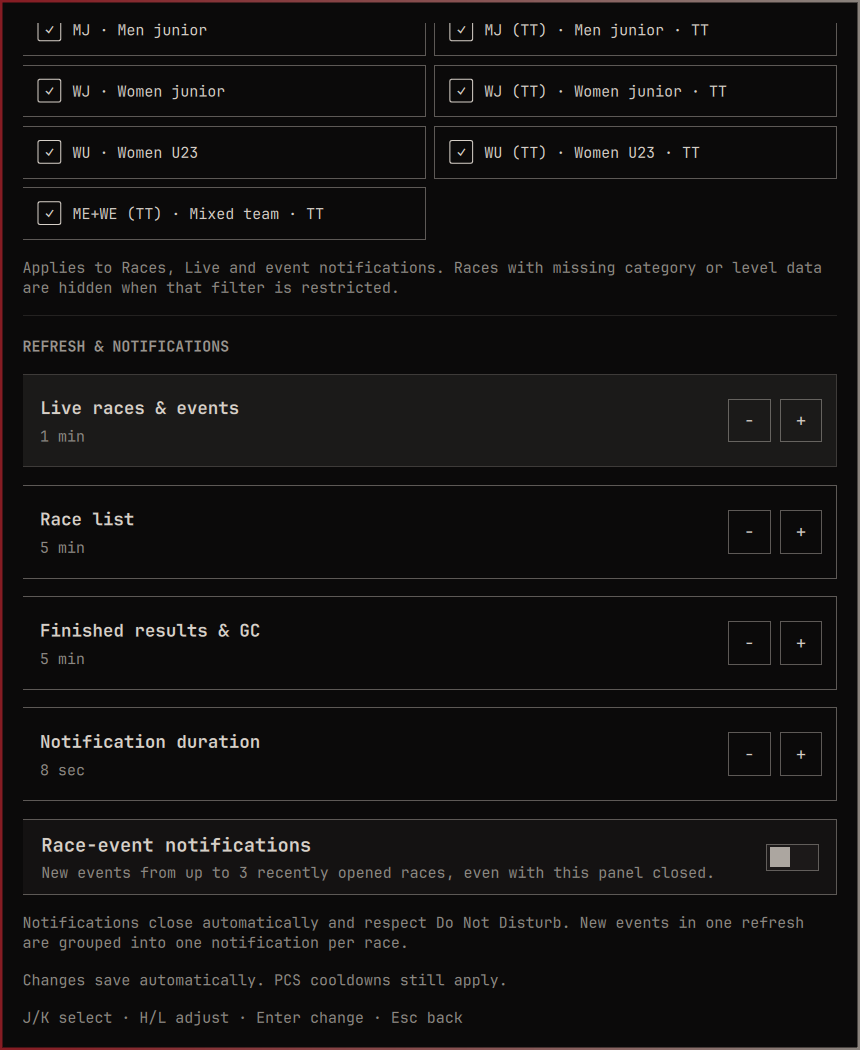
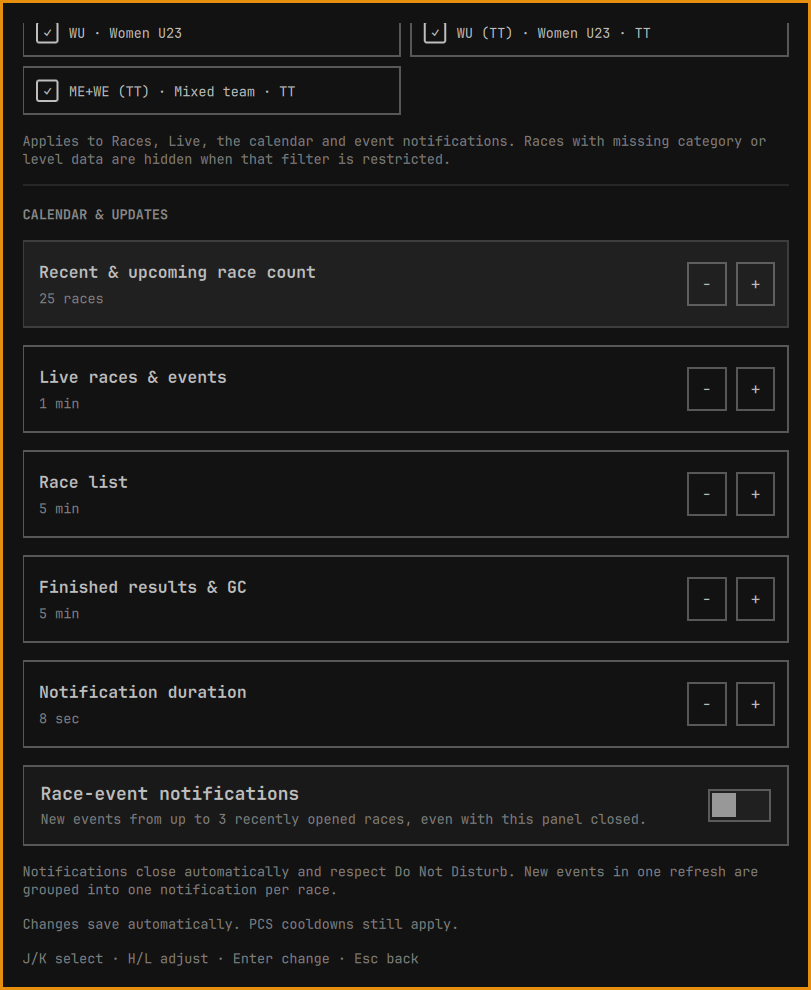
test: verify calendar settings and native window behavior

Changed region(s): [[0.0, 0.0, 1.0, 1.0], [0.8323, 0.3636, 0.9556, 0.4242]]

diff --git a/BarWidget.qml b/BarWidget.qml
@@ -22,6 +22,7 @@ Panel {
     property int archiveCount: preferences.archiveRaceCount
     property var archiveSelection: null
     readonly property var archiveData: service ? service.archives[archiveMode] || ({state:"loading",races:[]}) : ({})
+    readonly property int archiveAvailableCount: Model.archiveRows(archiveData.races || [],archiveMode,Model.dayKey(now,0),preferences,100).length
     readonly property bool archiveBusy: service ? service.archiveBusy(archiveMode) : false
     readonly property string dayDate: Model.dayKey(now,dayOffset)
     readonly property var dayData: archive ? archiveData : !service ? ({}) : dayOffset === 0 ? {state:service.state,error:service.error,fetchedAt:service.fetchedAt,races:service.races} : service.dayLists[dayDate] || ({state:"loading"})
@@ -477,8 +478,8 @@ Panel {
                         }
                         Button {
                             visible:root.archive && (root.rows.length<root.archiveCount || root.archiveCount<100)
-                            width:parent.width;enabled:!root.archiveBusy && !root.archiveData.exhausted && (!root.service || root.service.nextAllowed<=root.now)
-                            text:root.archiveBusy ? "Searching…" : root.archiveData.exhausted ? "Calendar search limit reached" : root.rows.length>=root.archiveCount ? "Show more races" : root.archiveMode==="recent" ? "Search older races" : "Search later races"
+                            width:parent.width;enabled:!root.archiveBusy && (!root.archiveData.exhausted || root.archiveAvailableCount>root.archiveCount) && (!root.service || root.service.nextAllowed<=root.now)
+                            text:root.archiveBusy ? "Searching…" : root.rows.length>=root.archiveCount && root.archiveCount<root.archiveAvailableCount ? "Show more races" : root.archiveData.exhausted ? (root.demo ? "End of demo calendar" : "Calendar search limit reached") : root.rows.length>=root.archiveCount ? "Show more races" : root.archiveMode==="recent" ? "Search older races" : "Search later races"
                             bordered:true;foreground:root.foreground
                             onClicked:{if(root.rows.length>=root.archiveCount)root.archiveCount=Math.min(100,root.archiveCount+25);if(root.service)root.service.watchArchive(root.archiveMode,root.archiveCount,true)}
                         }
@@ -527,7 +528,7 @@ Panel {
                             width:parent.width;detail:root.detail;foreground:root.foreground
                         }
                     }
-                    RaceText {width:parent.width;text:root.expanded ? "J/K select · Enter details · R refresh · Esc back" : "←/→ day · J/K select · Enter details · R refresh";font.pixelSize:Style.font.caption;color:root.dim;horizontalAlignment:Text.AlignHCenter}
+                    RaceText {width:parent.width;text:root.expanded ? "J/K select · Enter details · R refresh · Esc back" : root.archive ? "←/→ Recent / Upcoming · Enter details · R refresh" : "←/→ day · J/K select · Enter details · R refresh";font.pixelSize:Style.font.caption;color:root.dim;horizontalAlignment:Text.AlignHCenter}
                     }
                 }
             }

diff --git a/Model.js b/Model.js
@@ -34,7 +34,8 @@ function archiveRows(races, mode, today, options, limit) {
 }
 
 function mergeArchive(previous, result, mode, today) {
-    if(previous.reset && (result.state==="ready" || result.state==="empty")) previous={reset:false}
+    if(previous.reset && (result.state==="ready" || result.state==="empty" || (result.dates || []).length))
+        previous={reset:false,fetchedAt:previous.fetchedAt || ""}
     var records={}
     ;(previous.races || []).concat(result.races || []).forEach(function(r) {
         var old=records[r.path]

diff --git a/docs/validation.md b/docs/validation.md
@@ -1,4 +1,23 @@
-# Candidate validation
+# Validation
+
+## 0.9.0 calendar update — 2026-10-05
+
+- `PCS_REQUIRE_QT=1 tests/run`: 111 behavioral tests (58 Python, 32 JavaScript,
+  21 Qt service cases), manifest validation and QML parsing.
+- Live PCS calendar: recent and upcoming batches returned correctly dated races.
+  The native Recent screen reached 25 matching races across 18 searched dates;
+  selecting Coppa Agostoni opened 149 result rows. Langkawi returned 108 GC rows,
+  109 stage-result rows, 188.3 km and winner time 4:05:17.
+- Native Settings: changed count from 25 to 30 with the keyboard, checked the
+  saved shell entry, reopened the calendar at 30, and restored the original
+  setting. Existing categories, level and notifications were preserved.
+- Fictional Recent, Upcoming, historical GC and Settings captures inspected.
+  Historical selection survived tiled window open, resize, native close/reopen
+  and docking. Demo cleanup restored live polling and desktop state.
+- The marketplace approval below applies to 0.8.1; this update has not been
+  submitted for a new marketplace verification.
+
+## Previous 0.8.1 candidate evidence
 
 Candidate: version **0.8.1**, prepared **2026-09-27**. Exact final source identity
 and raw local reports are in `.git/submission-candidate/` of the preparation checkout.

diff --git a/README.md b/README.md
@@ -42,7 +42,7 @@ All screenshots show the actual plugin using committed fictional fixtures.
 | --- | --- |
 | ![General classification](screenshots/gc.png) | ![Upcoming race information](screenshots/tomorrow-preview.png) |
 
-[Detached window](screenshots/window.png) · [Race events](screenshots/events.png) · [Refresh and notifications](screenshots/refresh-settings.png)
+[Race calendar](screenshots/calendar.png) · [Detached window](screenshots/window.png) · [Race events](screenshots/events.png) · [Refresh and notifications](screenshots/refresh-settings.png)
 · [Connection warning](screenshots/warning.png) · [Tomorrow’s list](screenshots/tomorrow-list.png)
 
 ## Requirements
